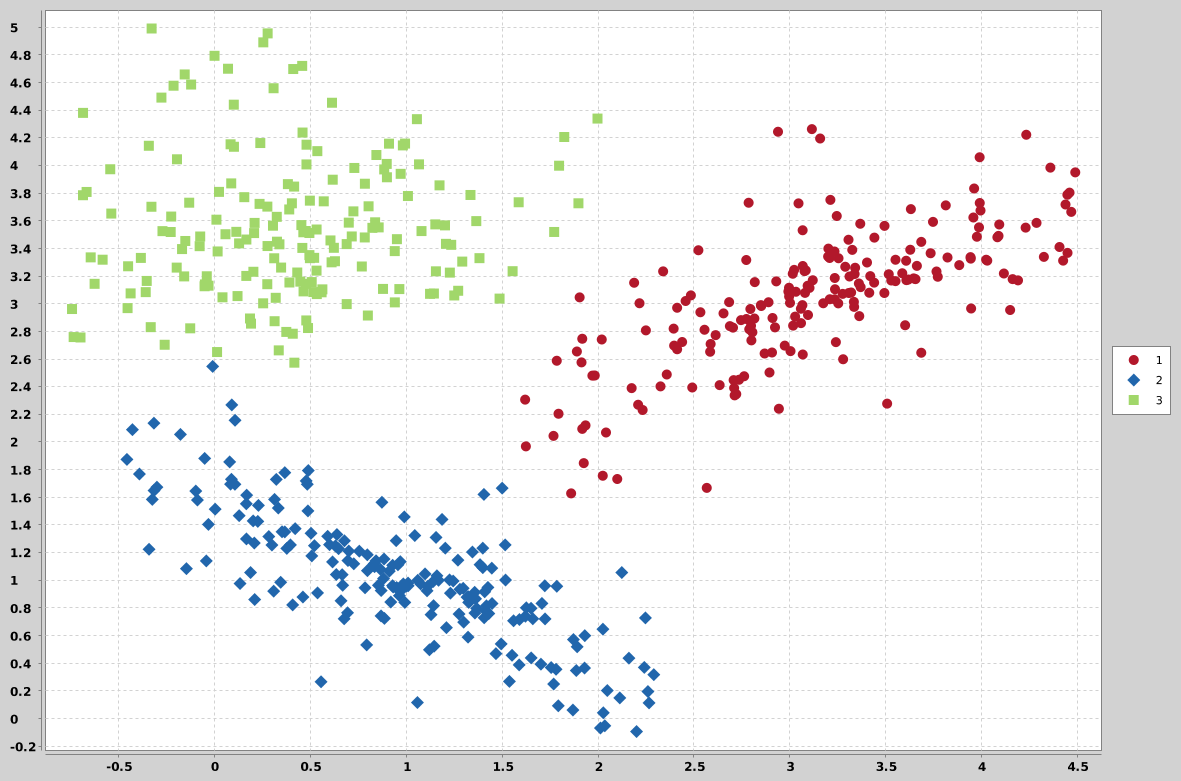
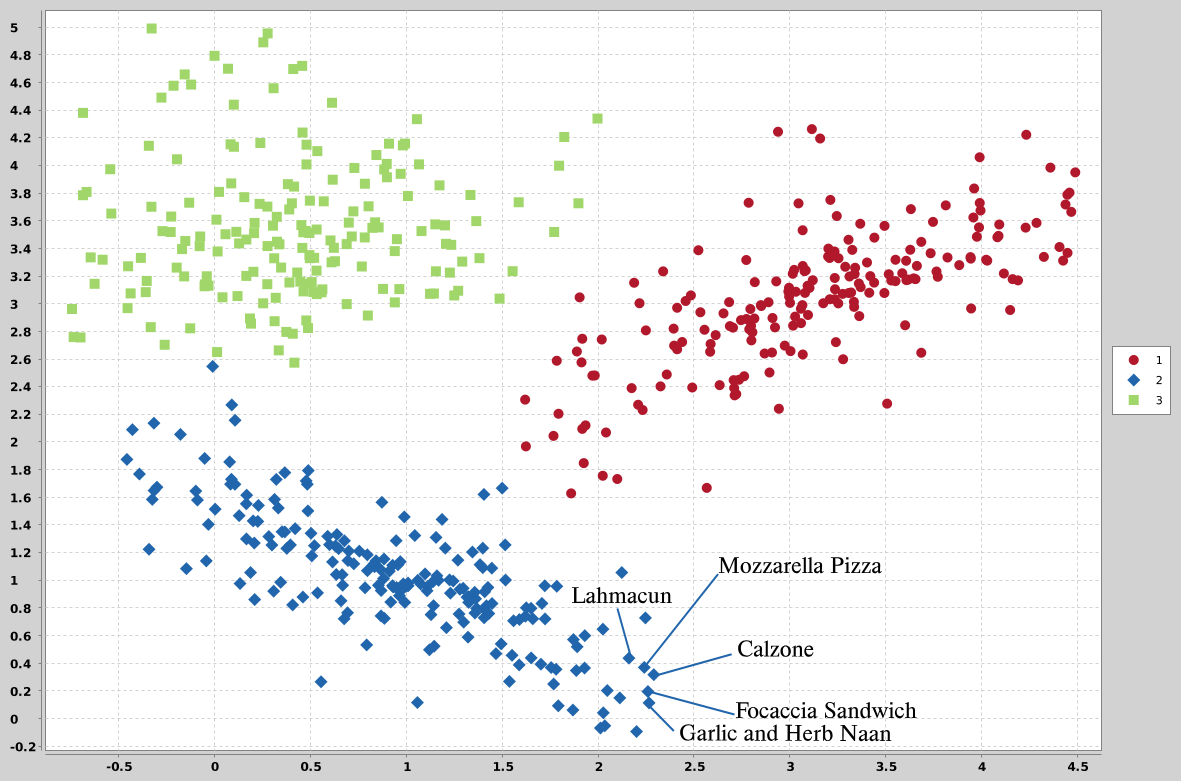
updating images

diff --git a/index.html b/index.html
@@ -59,7 +59,7 @@
     
                         <!-- Search Bar -->
                         <form class="search-bar mt-4" action="#" method="get">
-                            <input type="text" name="ingredient" placeholder="Search for an ingredient..." class="form-control">
+                            <input type="text" name="ingredient" placeholder="Search for an ingredient..." class="form-control" required>
                             <div class="mt-4">
                                 <button type="submit" class="main-btn"><i class="fas fa-search"></i> Search</button>
                             </div>
@@ -143,7 +143,7 @@
                     </div>
                     <div class="col-lg-7 col-md-12">
                         <div class="card border-0">
-                            <img src="Milestone2/images/img/example2.png" alt="" class="img-fluid">
+                            <img src="Milestone2/images/img/pairs.png" alt="" class="img-fluid freq">
                         </div>
                     </div>
                 </div>

diff --git a/Milestone2/css/style.css b/Milestone2/css/style.css
@@ -45,7 +45,7 @@ ol {
     --secondary-color: #994D00;      
     --third-color: #FFC074;          
     --white-color: #fff;
-    --text-color: #4B2E14;           
+    --text-color: #4B2E14;              
     --black-color: #000;
     --primary-font: 'Roboto', sans-serif;
     --secondary-font: 'Quicksand', sans-serif;
@@ -138,7 +138,17 @@ p{
     color: var(--white-color);
 }
 
+.img-fluid {
+    max-width: 100%;
+    height: auto;
+    display: block;
+    margin-left: auto;
+    margin-right: auto;
+    border-radius: 1rem; /* smooth corners */}
 
+.freq{
+    height: 450px;
+}
 /* 
 ------------------
 Header design

diff --git a/README.md b/README.md
@@ -100,7 +100,6 @@ Overall, we want our website design to be simple, welcoming, and engaging, simil
 
 **10% of the final grade**
 
-
 ## Milestone 3 (30th May, 5pm)
 
 **80% of the final grade**
